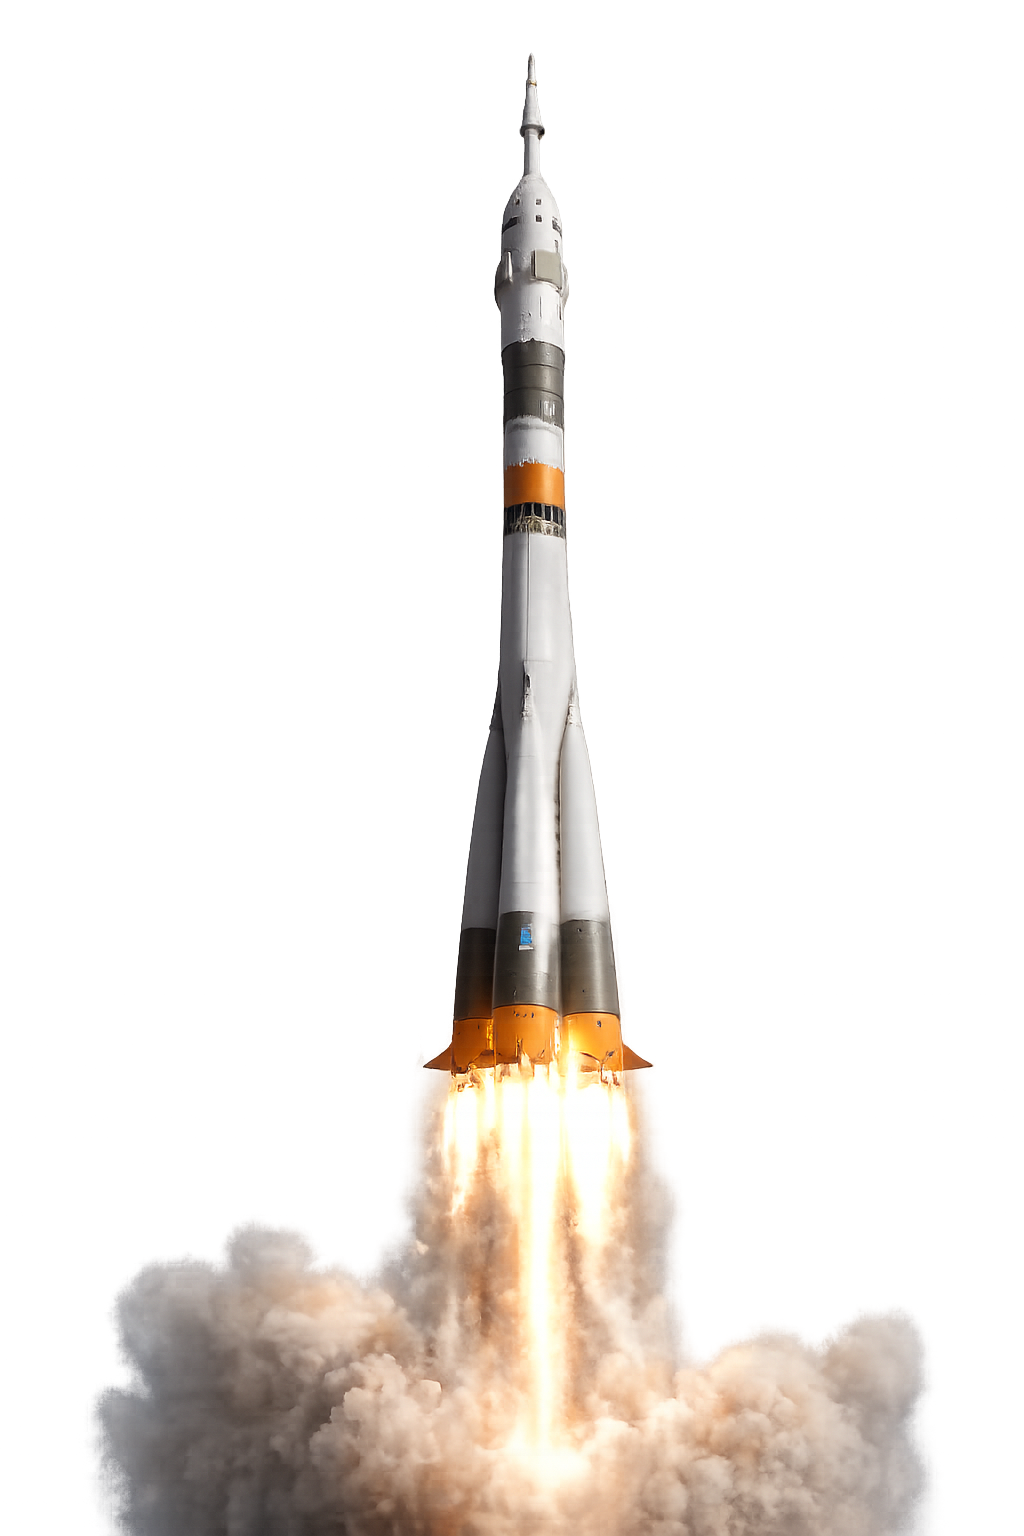
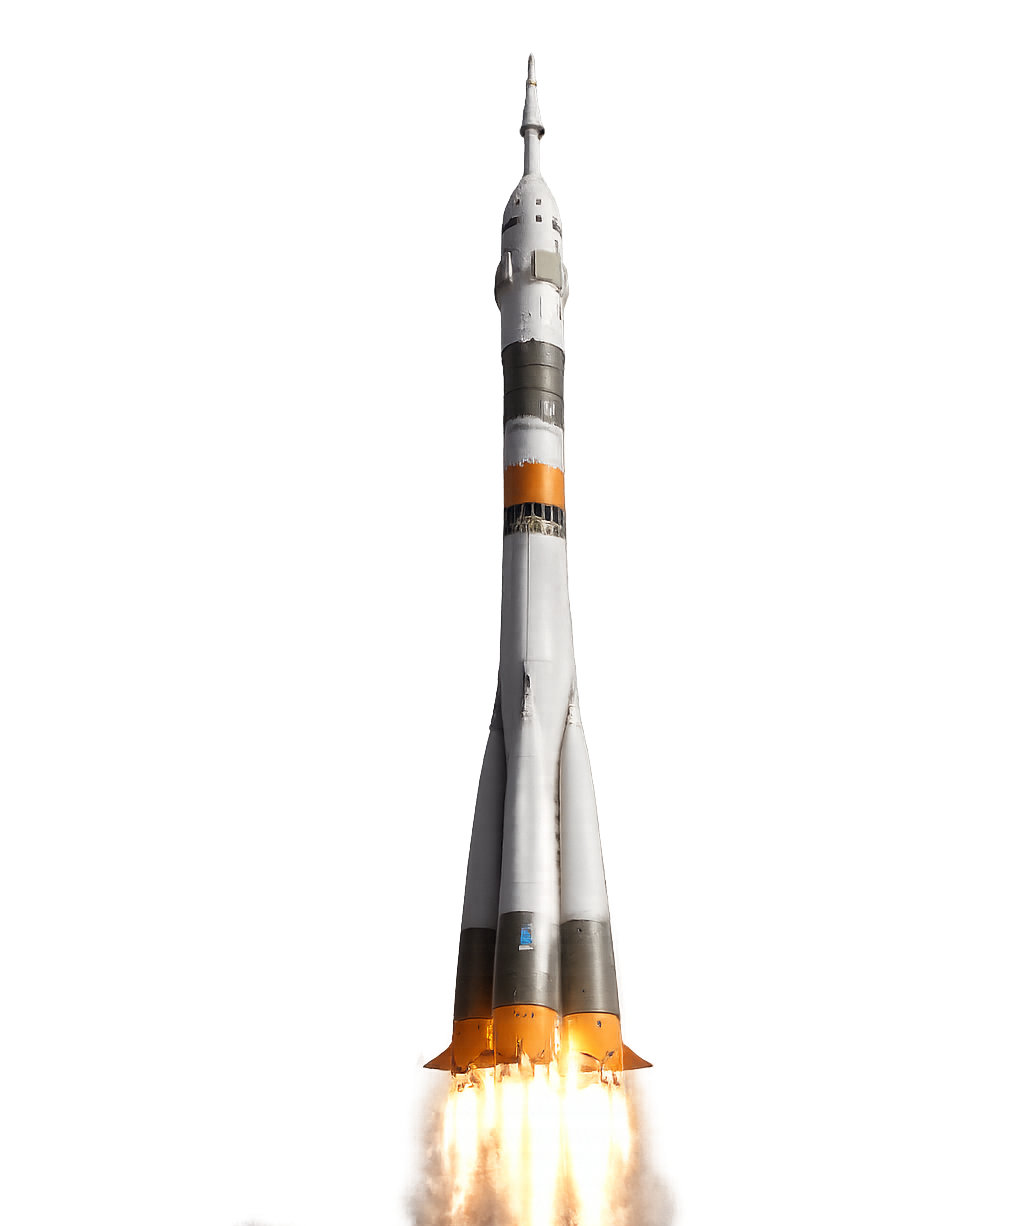
contact

Changed region(s): [[0.0938, 0.031, 0.9062, 1.0]]

diff --git a/my-portfolio/src/sections/Contact.jsx b/my-portfolio/src/sections/Contact.jsx
@@ -1,106 +1,130 @@
-import { useForm } from "@formspree/react";
+import { useForm, ValidationError } from "@formspree/react";
+import { motion, AnimatePresence } from "framer-motion";
 import { useState } from "react";
 import rocket from "../assets/rocket.png";
 
 export default function ContactSection() {
   const [state, handleSubmit] = useForm("xlgwerbn");
-  const [launched, setLaunched] = useState(false);
+  const [launch, setLaunch] = useState(false);
 
-  const submit = async (e) => {
+  const onSubmit = async (e) => {
+    e.preventDefault();
     await handleSubmit(e);
-    setLaunched(true);
+    if (!state.errors) setLaunch(true);
   };
 
   return (
-    <section className="relative h-screen bg-black overflow-hidden flex items-center justify-center">
-      {/* background */}
-      <div className="absolute inset-0 bg-[radial-gradient(circle_at_bottom,#0b1020_0%,#04050b_60%,#000_100%)]" />
+    <section className="relative min-h-screen bg-black/60 text-white overflow-hidden flex items-center justify-center">
+      
+      {/* Title */}
+      <h2 className="absolute top-24 tracking-[0.4em] text-white/60 text-3xl">
+        CONTACT
+      </h2>
 
-      {/* ROCKET */}
-      {launched && (
-        <img
-          src={rocket}
-          alt="rocket"
-          className="absolute bottom-[-120px] left-1/2 -translate-x-1/2
-                     w-20 animate-rocket"
-        />
-      )}
-
-      {!state.succeeded ? (
-        <form
-          onSubmit={submit}
-          className="relative z-10 w-[380px] p-8
-                     bg-[#070b1a]/85 border border-indigo-400/30
-                     shadow-[0_0_50px_rgba(0,0,0,0.7)]"
+      {/* FORM */}
+      {!state.succeeded && (
+        <motion.form
+          onSubmit={onSubmit}
+          initial={{ opacity: 0, y: 40 }}
+          animate={{ opacity: 1, y: 0 }}
+          className="relative z-10 w-[90%] max-w-lg mt-32 p-10
+                     bg-black/10 border border-white/15 rounded-2xl
+                     backdrop-blur-xl shadow-[0_0_60px_rgba(255,255,255,0.05)]"
         >
-          <h2 className="text-xs tracking-[0.3em] text-indigo-300 mb-6">
-            CONTACT TRANSMISSION
-          </h2>
+          <div className="space-y-7">
+            <input
+              name="name"
+              placeholder="NAME"
+              required
+              className="w-full bg-transparent border border-white/20
+                         px-4 py-3 rounded-md tracking-widest
+                         focus:border-cyan-400 outline-none transition"
+            />
 
-          <div className="mb-6">
-            <label className="block text-[11px] tracking-widest text-white/60 mb-2">
-              EMAIL
-            </label>
             <input
               type="email"
               name="email"
+              placeholder="EMAIL"
               required
-              className="w-full bg-black border border-white/15
-                         px-3 py-2 text-sm text-white outline-none
-                         focus:border-indigo-400 transition"
+              className="w-full bg-transparent border border-white/20
+                         px-4 py-3 rounded-md tracking-widest
+                         focus:border-cyan-400 outline-none transition"
             />
-          </div>
 
-          <div className="mb-8">
-            <label className="block text-[11px] tracking-widest text-white/60 mb-2">
-              MESSAGE
-            </label>
             <textarea
               name="message"
-              rows={5}
+              rows="4"
+              placeholder="MESSAGE"
               required
-              className="w-full bg-black border border-white/15
-                         px-3 py-2 text-sm text-white resize-none outline-none
-                         focus:border-indigo-400 transition"
+              className="w-full bg-transparent border border-white/20
+                         px-4 py-3 rounded-md tracking-widest
+                         focus:border-cyan-400 outline-none resize-none transition"
             />
-          </div>
 
-          <button
-            type="submit"
-            disabled={state.submitting}
-            className="w-full py-3 text-xs tracking-[0.35em]
-                       border border-indigo-400 text-indigo-300
-                       hover:bg-indigo-400/10 transition"
-          >
-            TRANSMIT
-          </button>
-        </form>
-      ) : (
-        <div className="relative z-10 px-10 py-8 text-center
-                        bg-[#070b1a]/85 border border-indigo-400/30">
-          <h2 className="text-xs tracking-[0.35em] text-indigo-300 mb-4">
-            SIGNAL RECEIVED
-          </h2>
-          <p className="text-sm text-white/70">
-            Message received.
-            <br />
-            Will connect soon.
-          </p>
-        </div>
+            <ValidationError errors={state.errors} />
+
+            <button
+              type="submit"
+              disabled={state.submitting}
+              className="w-full py-3 rounded-full bg-white text-black
+                         font-semibold tracking-widest hover:scale-105 transition"
+            >
+              {state.submitting ? "TRANSMITTING…" : "SEND"}
+            </button>
+          </div>
+        </motion.form>
       )}
 
-      {/* TAILWIND KEYFRAMES */}
-      <style>
-        {`
-          @keyframes rocket {
-            0% { transform: translate(-50%, 0) scale(1); opacity: 1; }
-            100% { transform: translate(-50%, -120vh) scale(0.9); opacity: 0; }
-          }
-          .animate-rocket {
-            animation: rocket 2.8s ease-in forwards;
-          }
-        `}
-      </style>
+      {/* SUCCESS */}
+      {state.succeeded && (
+        <motion.div
+          initial={{ opacity: 0 }}
+          animate={{ opacity: 1 }}
+          className="absolute z-10 text-center mt-40"
+        >
+          <h3 className="text-4xl tracking-wider mb-20">
+            MESSAGE RECEIVED
+          </h3>
+          <p className="text-white/60">
+            Will connect soon…
+          </p>
+        </motion.div>
+      )}
+
+      {/* 🚀 ROCKET */}
+      <AnimatePresence>
+        {launch && (
+          <motion.div
+            initial={{ y: 0 }}
+            animate={{ y: "-130vh" }}
+            transition={{ duration: 1.3, ease: "easeIn" }}
+            className="absolute bottom-[-160px] left-1/2 -translate-x-1/2"
+          >
+            {/* ROCKET */}
+            <img src={rocket} className="w-20 mx-auto relative z-10" />
+
+            {/* FIRE */}
+            <div className="mx-auto w-8 h-32 -mt-2
+                            bg-gradient-to-b from-yellow-200 via-orange-500 to-transparent
+                            blur-sm rounded-full animate-flame" />
+
+            {/* GLOW */}
+            <div className="mx-auto -mt-24 w-24 h-24
+                            bg-orange-500/30 blur-3xl rounded-full" />
+          </motion.div>
+        )}
+      </AnimatePresence>
+
+      <style>{`
+        @keyframes flame {
+          0% { height: 80px; opacity: 0.7 }
+          50% { height: 120px; opacity: 1 }
+          100% { height: 90px; opacity: 0.8 }
+        }
+        .animate-flame {
+          animation: flame 0.12s infinite alternate;
+        }
+      `}</style>
     </section>
   );
 }
